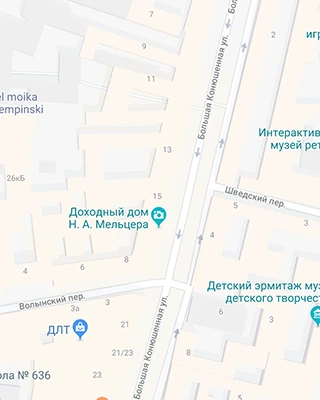
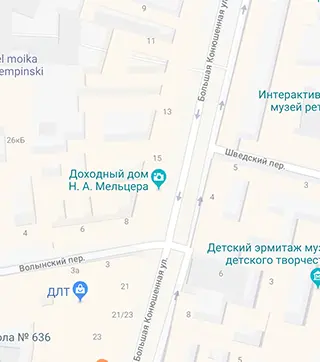
Бонусные блоки главной

diff --git a/source/index.html b/source/index.html
@@ -94,9 +94,9 @@
                 <td class="motivation__value">60 дней</td>
                 <td class="motivation__field">Затрачено времени</td>
               </tr>
-          </table>
-          <p class="motivation__cost">Затраты на питание: 15 000 руб.</p>
-        </div>
+            </table>
+            <p class="motivation__cost">Затраты на питание: 15 000 руб.</p>
+          </div>
           <div class="slider">
             <input class="visually-hidden slider-input" type="radio" id="cat-1" name="toggle" checked="">
             <input class="visually-hidden slider-input" type="radio" id="cat-2" name="toggle">
@@ -115,10 +115,10 @@
         <h2 class="visually-hidden">Как до нас добраться</h2>
         <div class="contacts__wrapper">
           <div class="contacts__text">
-            <p class="contacts__invite">Приглашаем к сотрудничеству дилеров!</p>
+            <p class="contacts__invite">Приглашаем к&nbsp;сотрудничеству дилеров!</p>
             <p class="contacts__address">ул. Большая Конюшенная, д. 19/8 Санкт-Петербург</p>
           </div>
-          <picture>
+          <picture class="contacts__picture">
             <source media="(min-width: 1300px)" srcset="img/bg-map-desktop@1x.png">
             <source media="(min-width: 768px)" srcset="img/bg-map-tablet@1x.png">
             <img class="contacts__map" src="img/bg-map-mobile@1x.png" width="320" height="400" alt="Офис компании по адресу ул. Большая Конюшенная 19/8, Санкт-Петербург">

diff --git a/source/less/blocks/motivation.less b/source/less/blocks/motivation.less
@@ -1,19 +1,19 @@
 .motivation {
-  padding: 16px 20px 20px 20px;
   margin-bottom: 25px;
 
   color: #111111;
+  background-color: #f2f2f2;
 }
 
 .motivation__wrapper {
-  .wrapper;
+  padding: 17px 20px 21px;
 
-  background-color: #f2f2f2;
+  .wrapper;
 }
 
 .motivation__title {
   .zero;
-  margin-bottom: 25px;
+  margin-bottom: 24px;
 
   font-family: @oswaldr;
   .size(36px; 60px);
@@ -22,13 +22,17 @@
 
 .motivation__text {
   .zero;
-  margin-bottom: 33px;
+  padding-right: 10px;
+  margin-bottom: 24px;
 
   color: #444444;
 }
 
 .motivation__list {
-  margin-bottom: 25px;
+  margin-bottom: 19px;
+  margin-right: 30px;
+
+  border-collapse: collapse;
 }
 
 .motivation__list tbody {
@@ -39,20 +43,37 @@
   display: flex;
   flex-direction: column;
   align-items: center;
+
+  margin-right: 30px;
 }
 
 .motivation__value {
+  width: 125px;
+  padding-top: 12px;
+  padding-bottom: 18px;
+
   font-family: @oswaldr;
   .size(24px; 24px);
   font-weight: normal;
+  text-transform: uppercase;
+  text-align: center;
+
+  border: 1px solid #cdcdcd;;
+  border-radius: 4px;
 }
 
 .motivation__field {
+  width: 80px;
+  margin-top: -10px;
+
   font-family: @arial;
   .size(12px; 12px);
   font-weight: normal;
+  text-transform: lowercase;
+  text-align: center;
 
   color: #444444;
+  background-color: #f2f2f2;
 }
 
 .motivation__cost {

diff --git a/source/catalog.html b/source/catalog.html
@@ -423,7 +423,7 @@
             <p class="contacts__invite">Приглашаем к сотрудничеству дилеров!</p>
             <p class="contacts__address">ул. Большая Конюшенная, д. 19/8 Санкт-Петербург</p>
           </div>
-          <picture>
+          <picture class="contacts__picture">
             <source media="(min-width: 1300px)" srcset="img/bg-map-desktop@1x.png">
             <source media="(min-width: 768px)" srcset="img/bg-map-tablet@1x.png">
             <img class="contacts__map" src="img/bg-map-mobile@1x.png" width="320" height="400" alt="Офис компании по адресу ул. Большая Конюшенная 19/8, Санкт-Петербург">

diff --git a/source/less/blocks/additional-goods.less b/source/less/blocks/additional-goods.less
@@ -2,23 +2,30 @@
   .wrapper;
   padding-left: 20px;
   padding-right: 20px;
+  padding-top: 28px;
 }
 
 .additional-goods__title {
   .zero;
+  padding-bottom: 35px;
 
   font-family: @oswaldr;
   .size(24px; 24px);
   font-weight: normal;
 
   color: #111111;
+  .border;
 }
 
 .additional-goods__list {
   .zero;
+  margin-bottom: 39px;
 }
 
 .additional-goods__item-title {
+  .zero;
+  padding-bottom: 10px;
+
   font-family: @oswaldr;
   .size(16px; 16px);
   font-weight: normal;
@@ -28,7 +35,15 @@
 }
 
 .additional-goods__table {
+  margin-bottom: 11px;
+
   line-height: 14px;
+}
+
+.additional-goods__item {
+  padding-top: 13px;
+
+  .border;
 }
 
 @media (min-width: @tablet-width) {

diff --git a/source/less/blocks/contacts.less b/source/less/blocks/contacts.less
@@ -5,6 +5,9 @@
 .contacts__text {
   display: flex;
   flex-wrap: wrap;
+  justify-content: space-between;
+
+  padding: 4px 20px 25px;
 }
 
 .contacts__invite {
@@ -24,6 +27,29 @@
   .zero;
 
   line-height: 20px;
+}
+
+.contacts__map {
+  display: block;
+}
+
+.contacts__picture {
+  position: relative;
+
+  &::before {
+    content: "";
+    position: absolute;
+    left: 135px;
+    top: 140px;
+    z-index: 5;
+
+    width: 55px;
+    height: 53px;
+
+    background-image: url(../img/map-pin-mobile.png);
+    background-repeat: no-repeat;
+    background-position: 0 0;
+  }
 }
 
 @media (min-width: @tablet-width) {

diff --git a/source/less/blocks/slider.less b/source/less/blocks/slider.less
@@ -5,6 +5,30 @@
   text-transform: uppercase;
 }
 
+.slider {
+  padding-left: 43px;
+}
+
+.slider-controls {
+  position: relative;
+
+  &:after {
+    content: "";
+    position: absolute;
+
+    width: 84px;
+    height: 14px;
+    top: 3px;
+    left: 56px;
+
+    border: 1px solid #cdcdcd;
+    border-radius: 5px;
+  }
+}
+
+.slider-controls-item:first-child {
+  margin-right: 118px;
+}
 
 @media (min-width: @tablet-width) {
   .slider {
